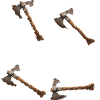
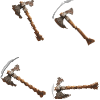
omg

Changed region(s): [[0.48, 0.75, 0.99, 1.0], [0.0, 0.57, 0.21, 0.78], [0.51, 0.0, 0.75, 0.21]]

diff --git a/index.html b/index.html
@@ -57,20 +57,28 @@
             frameWidth: 50,
             frameHeight: 50
         });
+        this.load.spritesheet('swordatkthird', 'assets/swordatk2.png', {
+            frameWidth: 50,
+            frameHeight: 50
+        });
+        this.load.spritesheet('axeatkthird', 'assets/axeatk2.png', {
+            frameWidth: 50,
+            frameHeight: 50
+        });
     }
     
-    var platforms
+    var platforms;
     var players = {
         player: null,
         player2: null
-    }
+    };
 
-    var player
-    var cursors
+    var player;
+    var cursors;
 
-    var wasd 
-    var attackKey1
-    var attackKey2
+    var wasd;
+    var attackKey1;
+    var attackKey2;
 
     function attackIsElligible(attacker, target) {
         if (!attacker.canAttack || attacker.hitstun) return false;
@@ -89,6 +97,14 @@
         attacker.atk.y = attacker.y + attacker.lastDir.y * 50;
 
         attacker.atk.setFlipX(-attacker.lastDir.x < 0);
+
+        if (attacker.lastDir.y < 0) {
+            attacker.atk.setAngle(90);
+        } else if (attacker.lastDir.y > 0) {
+            attacker.atk.setAngle(-90);
+        } else {
+            attacker.atk.setAngle(0);
+        }
 
         attacker.atk.setFrame(0);
         attacker.atk.play(animKey, true);
@@ -149,6 +165,13 @@
 
         attacker.atk.setFlipX(-attacker.lastDir.x < 0);
 
+        if (attacker.lastDir.y < 0) {
+            attacker.atk.setAngle(90);
+        } else if (attacker.lastDir.y > 0) {
+            attacker.atk.setAngle(-90);
+        } else {
+            attacker.atk.setAngle(0);
+        }
         //animation
 
         attacker.atk.setFrame(0);
@@ -169,7 +192,7 @@
             target.setVelocityY(-500);
         }
         attacker.canAttack = false;
-        scene.time.delayedCall(180, () => {
+        scene.time.delayedCall(250, () => {
             attacker.atk.stop();
             attacker.atk.setVisible(false);
         });
@@ -187,6 +210,17 @@
                 player.comboTimer = 0;
             }
         }
+    }
+    function tryAttack(scene, attacker, target, animKey, thirdAnimKey) {
+        if (scene.time.now < attacker.nextAttackTime) return;
+        if (!attacker.canAttack || attacker.hitstun) return;
+
+        if (attacker.combo >= 2) {
+            thirdAttack(scene, attacker, target, thirdAnimKey);
+        } else {
+            attack(scene, attacker, target, animKey);
+        }
+        attacker.nextAttackTime = scene.time.now + 400; // Attack cooldown
     }
     function create () {
         platforms = this.physics.add.staticGroup();
@@ -213,15 +247,27 @@
         //platform.refreshBody();
         this.anims.create({
             key: 'axeatk',
-            frames: this.anims.generateFrameNumbers('axeatk', { start: 0, end: 3 }),
-            frameRate: 16,
+            frames: this.anims.generateFrameNumbers('axeatk', { start: 0, end: 4 }),
+            frameRate: 32,
             repeat: 0
         });
 
         this.anims.create({
             key: 'swordatk',
-            frames: this.anims.generateFrameNumbers('swordatk', { start: 0, end: 3 }),
-            frameRate: 16,
+            frames: this.anims.generateFrameNumbers('swordatk', { start: 0, end: 4 }),
+            frameRate: 32,
+            repeat: 0
+        });
+        this.anims.create({
+            key: 'swordatkthird',
+            frames: this.anims.generateFrameNumbers('swordatkthird', { start: 0, end: 4 }),
+            frameRate: 32,
+            repeat: 0
+        });
+        this.anims.create({
+            key: 'axeatkthird',
+            frames: this.anims.generateFrameNumbers('axeatkthird', { start: 0, end: 4 }),
+            frameRate: 32,
             repeat: 0
         });
 
@@ -241,6 +287,9 @@
 
         players.player.freeze = false;
         players.player2.freeze = false;
+
+        players.player.nextAttackTime = 0;
+        players.player2.nextAttackTime = 0;
 
         players.player.combo = 0;
         players.player2.combo = 0;
@@ -269,25 +318,6 @@
         //---CONTROLS---\\
         attackKey1 = this.input.keyboard.addKey(Phaser.Input.Keyboard.KeyCodes.E);
         attackKey2 = this.input.keyboard.addKey(Phaser.Input.Keyboard.KeyCodes.SHIFT);
-        this.input.keyboard.on('keydown-E', () => {
-            const attacker = players.player;
-            const target = players.player2;
-            if (attacker.combo >= 2) {
-                thirdAttack(this, attacker, target, 'axeatk');
-            } else {
-                attack(this, attacker, target, 'axeatk');
-            }
-        });
-        this.input.keyboard.on('keydown-SHIFT', () => {
-            const attacker = players.player2;
-            const target = players.player;
-
-            if (attacker.combo >= 2) {
-                thirdAttack(this, attacker, target, 'swordatk');
-            } else {
-                attack(this, attacker, target, 'swordatk');
-            }
-        });
 
         for (const key in players) {
             const player = players[key];
@@ -308,6 +338,12 @@
     }
 
     function update () {
+        if (attackKey1.isDown) {
+            tryAttack(this, players.player, players.player2, 'axeatk', 'axeatkthird');
+        }
+        if (attackKey2.isDown) {
+            tryAttack(this, players.player2, players.player, 'swordatk', 'swordatkthird');
+        }
         if (players.player.freeze) {
             players.player.setVelocityX(0);
             players.player.setVelocityY(0);
